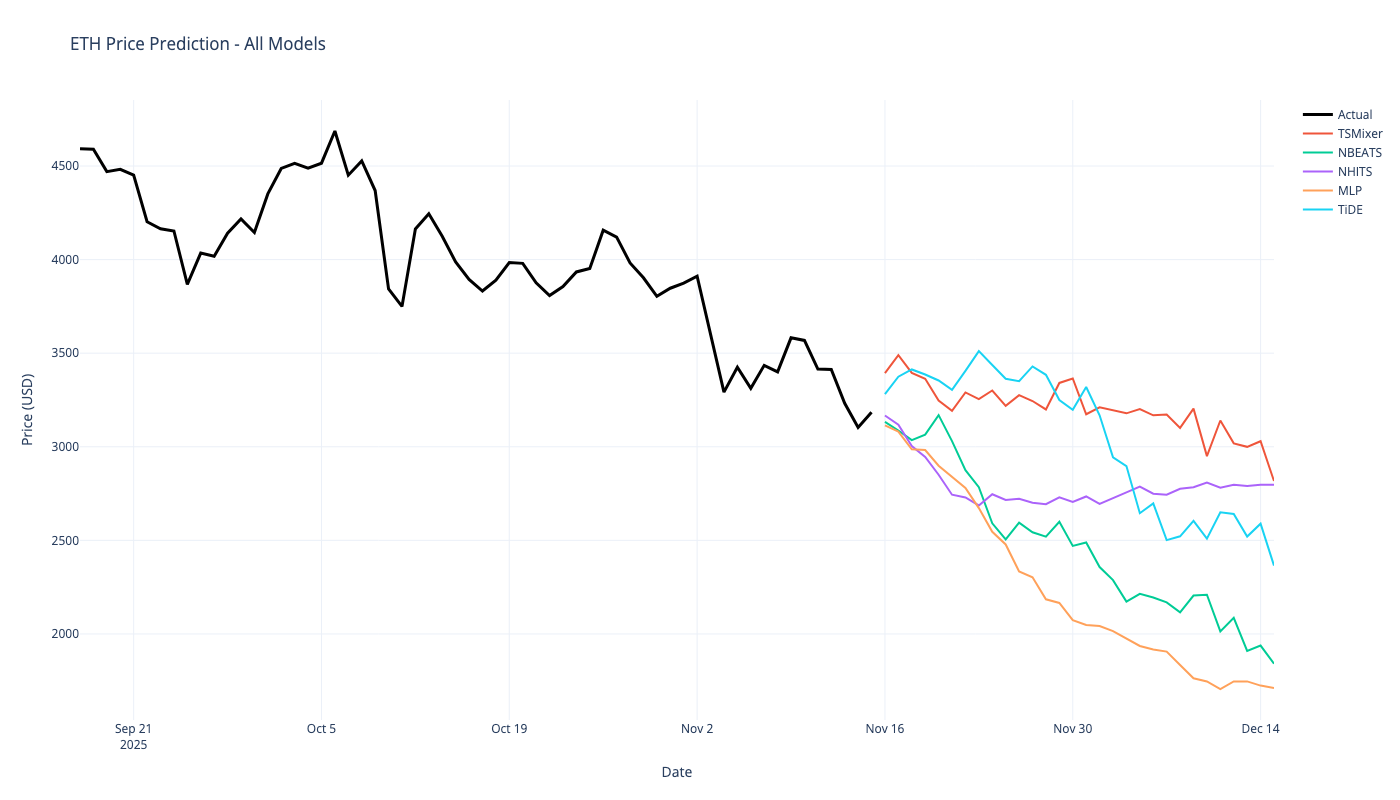
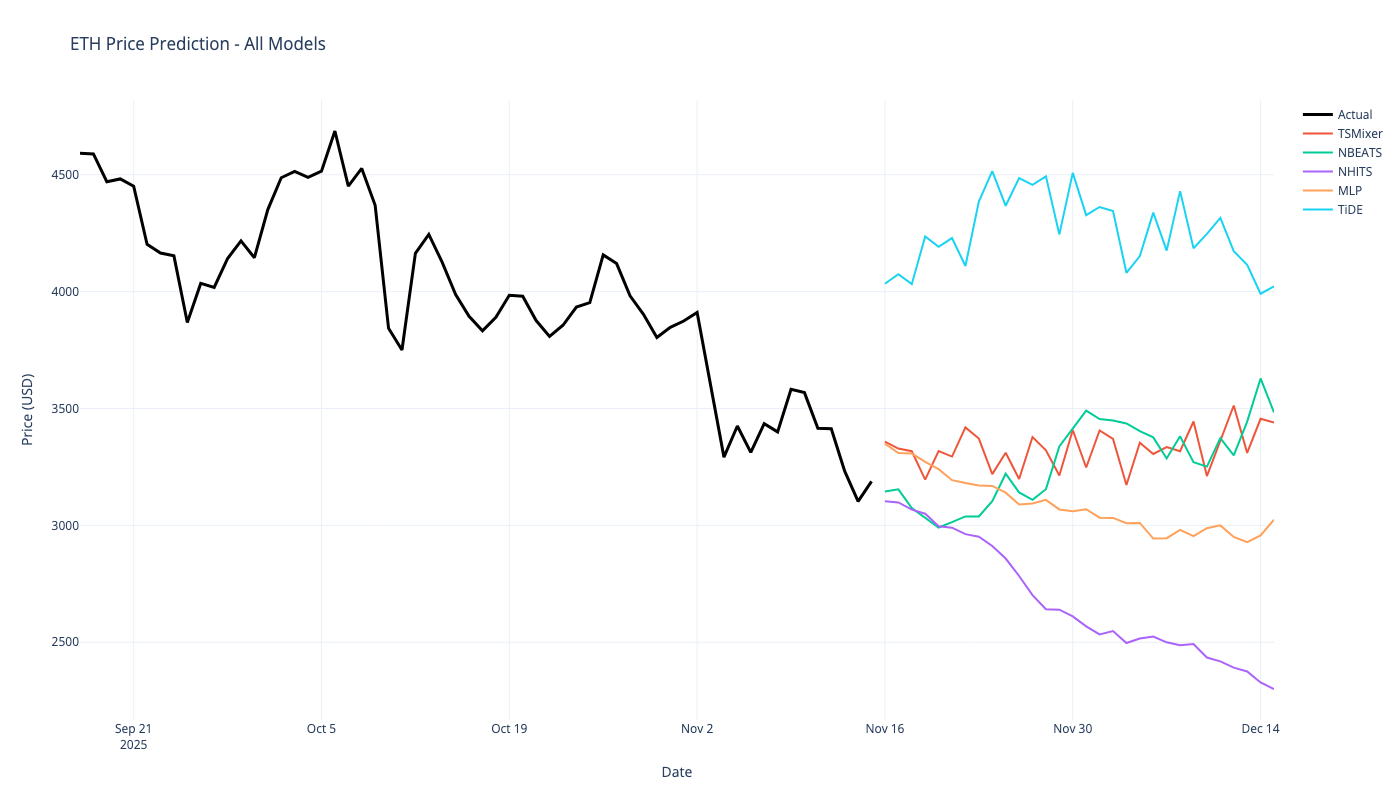
[UPD] update eth hyperparams

diff --git a/update_eth.py b/update_eth.py
@@ -13,18 +13,22 @@ eth_df.insert(0, "unique_id", "1.0")
 horizon = 30
 
 models = [
-    TSMixer(h=horizon, n_series=1, input_size=720, n_block=8, ff_dim=256, dropout=0.2, 
-            revin=True, max_steps=1000, learning_rate=5e-4, scaler_type="robust", batch_size=64),
-    NBEATS(h=horizon, input_size=720, max_steps=1000, learning_rate=5e-4, scaler_type="robust",
-           n_blocks=[3, 3, 3], mlp_units=[[512, 512], [512, 512], [512, 512]], 
-           stack_types=["trend", "seasonality", "identity"], batch_size=64),
-    NHITS(h=horizon, input_size=1440, max_steps=1000, learning_rate=5e-4, scaler_type="robust",
-          n_freq_downsample=[16, 8, 1], interpolation_mode="linear", pooling_mode="MaxPool1d", 
-          activation="ReLU", batch_size=64),
-    MLP(h=horizon, input_size=720, max_steps=1000, learning_rate=5e-4, scaler_type="robust",
-        num_layers=4, hidden_size=512, batch_size=64),
-    TiDE(h=horizon, input_size=1440, max_steps=1000, learning_rate=5e-4, scaler_type="robust",
-         hidden_size=512, batch_size=64),
+    TSMixer(h=horizon, n_series=1, input_size=720, n_block=6, ff_dim=512, dropout=0.2, 
+            revin=True, max_steps=300, learning_rate=5e-3, scaler_type="robust", batch_size=64),
+    
+    NBEATS(h=horizon, input_size=336, max_steps=300, learning_rate=5e-3, scaler_type="robust",
+           n_blocks=[4, 4, 4], mlp_units=[[512, 512]]*3, stack_types=["trend", "seasonality", "identity"], 
+           dropout_prob_theta=0.1, batch_size=64),
+    
+    NHITS(h=horizon, input_size=720, max_steps=300, learning_rate=5e-3, scaler_type="robust",
+          n_freq_downsample=[16, 8, 2, 1], n_blocks=[1, 1, 1, 1], mlp_units=[[512, 512]]*4,
+          interpolation_mode="linear", pooling_mode="MaxPool1d", activation="ReLU", batch_size=64),
+    
+    MLP(h=horizon, input_size=336, max_steps=300, learning_rate=5e-3, scaler_type="robust",
+        num_layers=4, hidden_size=512, dropout=0.2, batch_size=64),
+    
+    TiDE(h=horizon, input_size=1440, max_steps=300, learning_rate=5e-3, scaler_type="robust",
+         hidden_size=512, num_layers=4, dropout=0.2, batch_size=64),
 ]
 
 print("Training models...")
